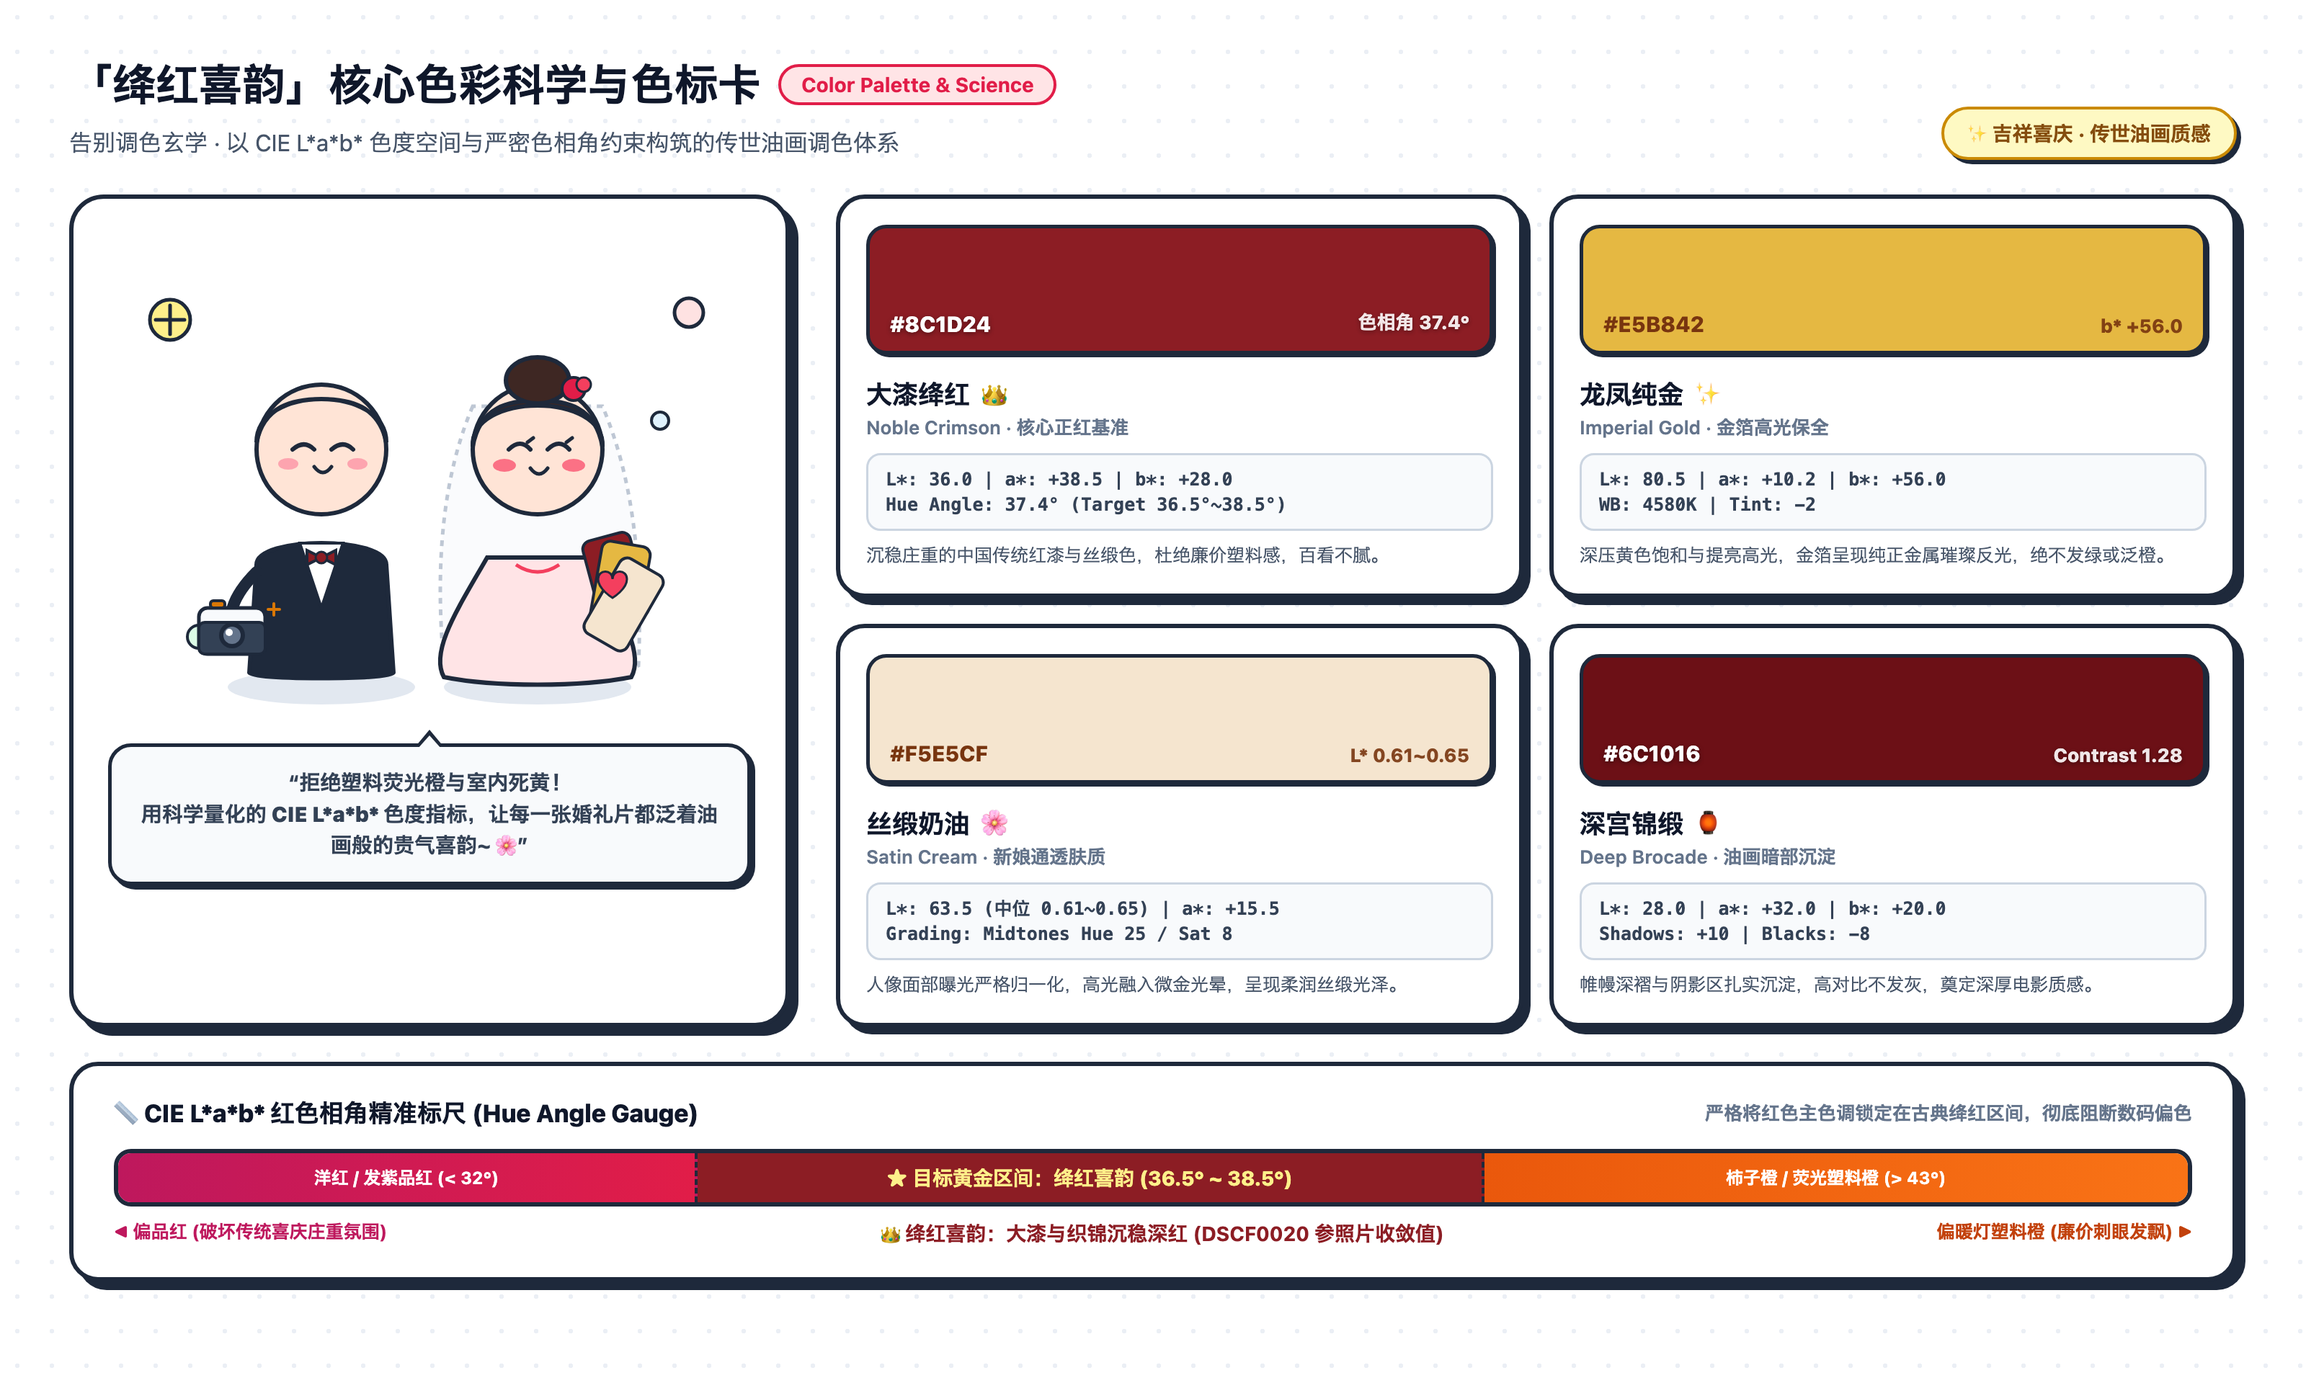
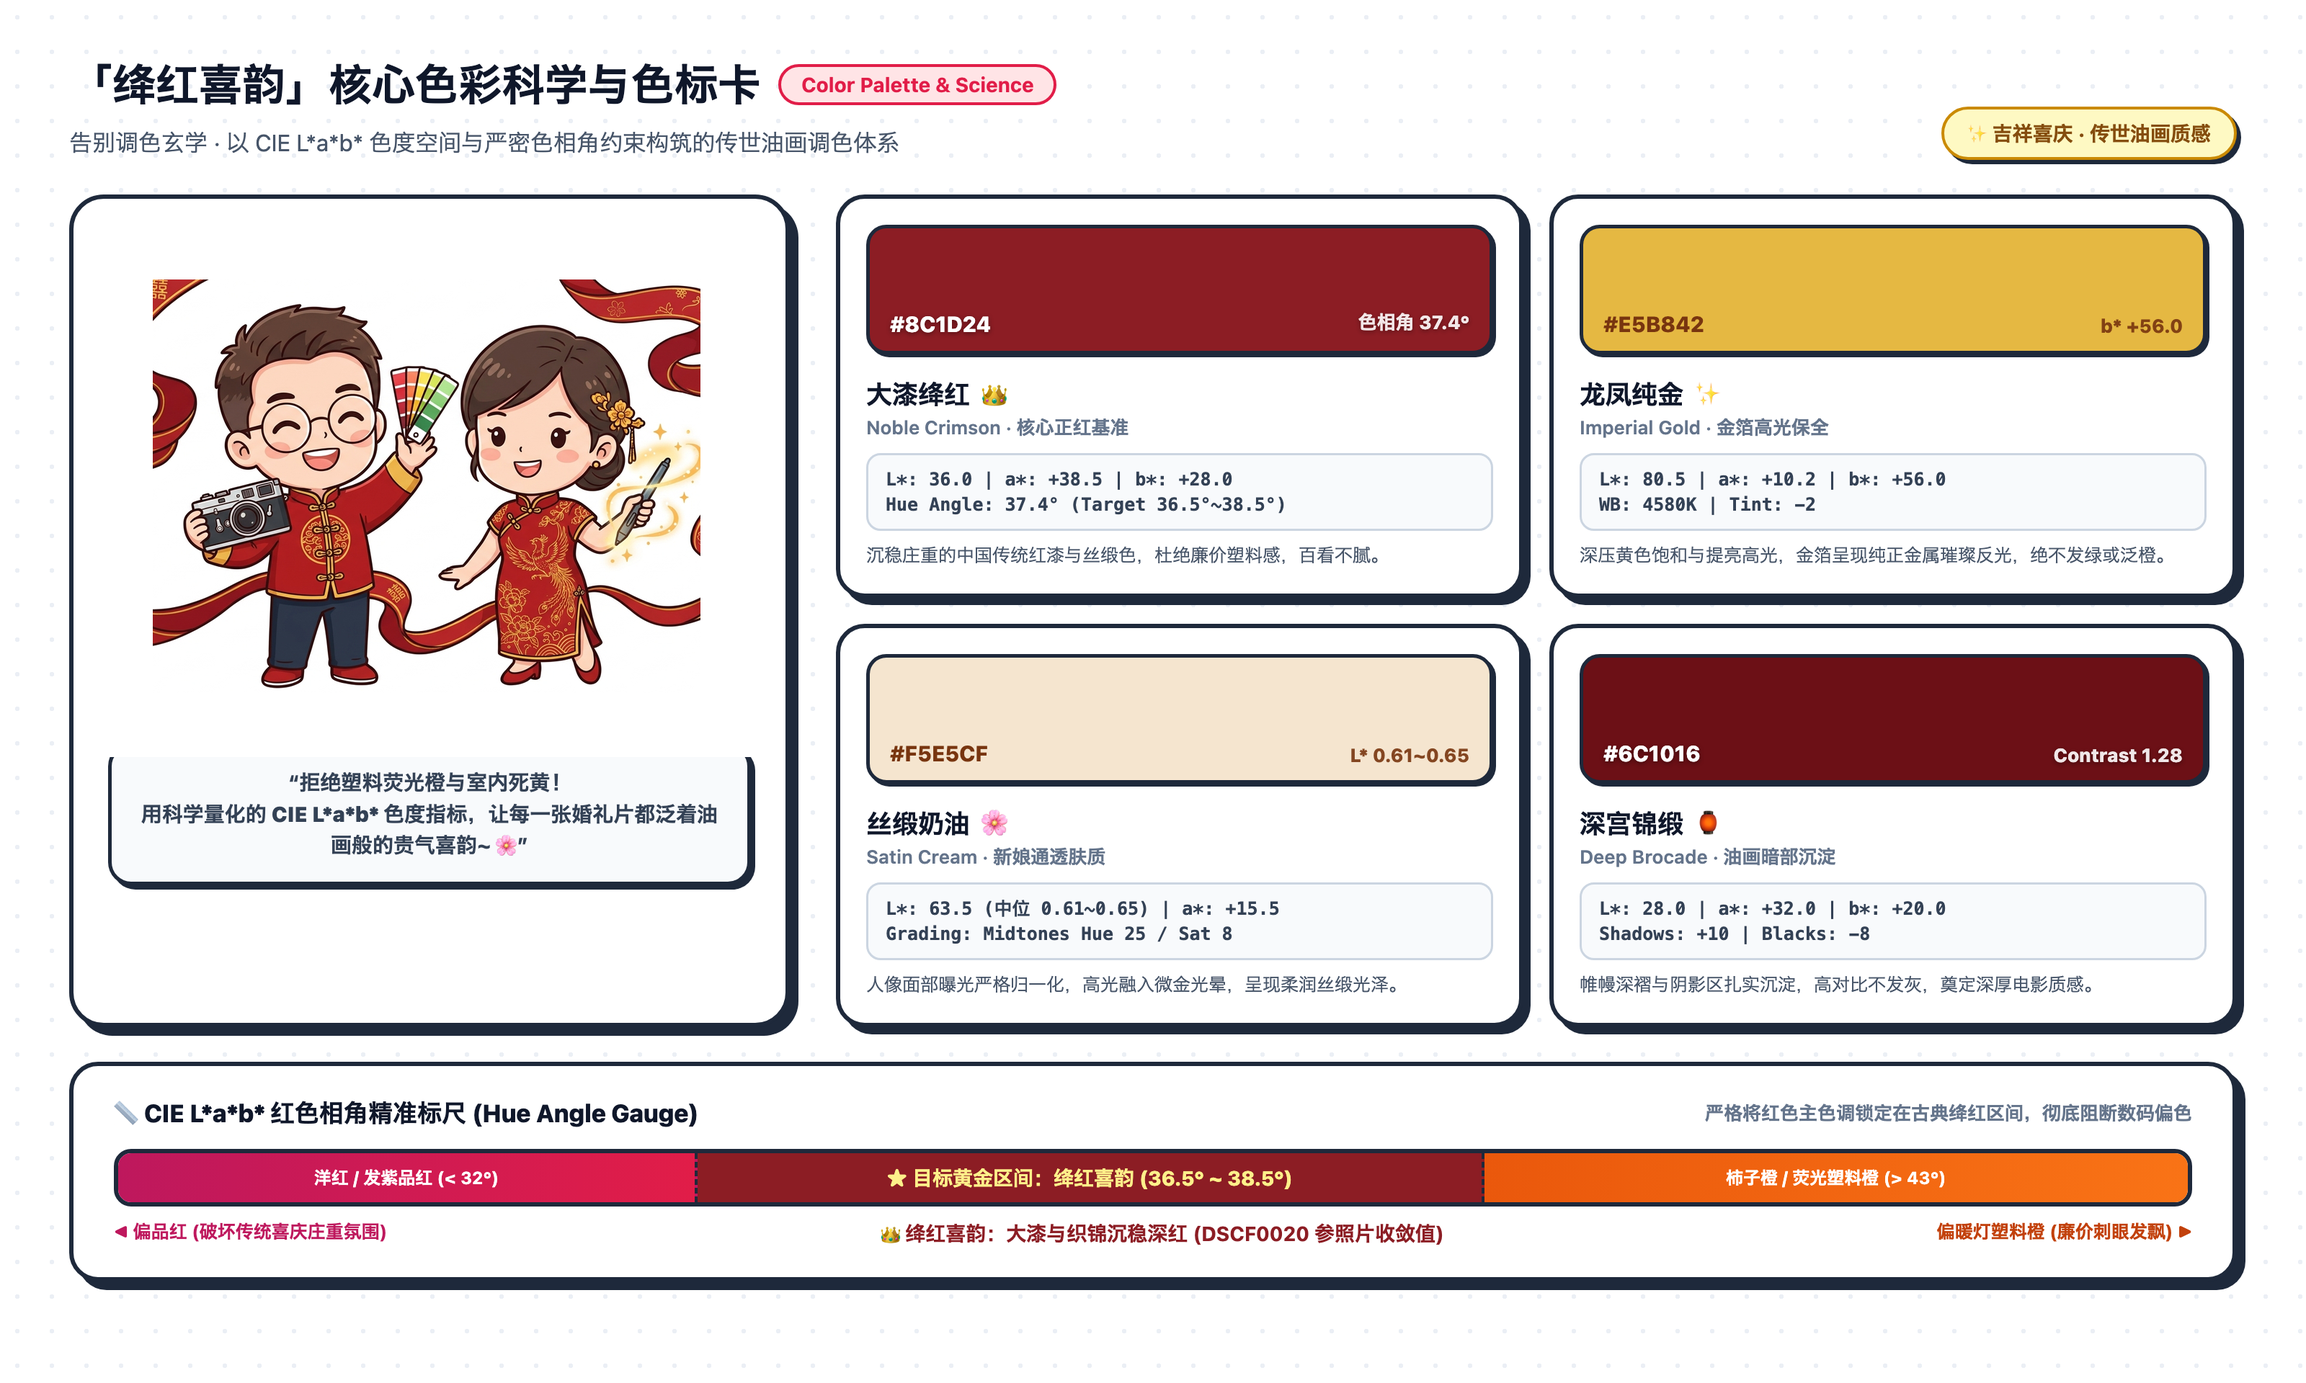
docs: replace repetitive crops with diverse wedding decor details and integrate Banana model mascots
- Replace repetitive suit/sleeve/hand crops in 06 and 07 with diverse, meaningful wedding decor:
  * 06: Wedding dolls on crimson velvet pillows & 'Zao Sheng Gui Zi' plate sets on red satin bedding (DSCF0027)
  * 07: Golden '喜上眉梢' woodcut ornament with red lanterns & bedside florals with champagne silk drape (DSCF0027)
- Integrate Google native multimodal AI (Banana) generated chibi mascots into 05_color_science_swatches.png
- Add standalone high-res 08_mascot_chibi_banana.jpg mascot hero artwork
- Update English and Chinese documentation reflecting new verified comparisons

Changed region(s): [[0.0625, 0.1875, 0.3125, 0.5312]]

diff --git a/README.md b/README.md
@@ -26,19 +26,19 @@ The heart of our calibration effort was dedicated to couple portraits (DSCF0034)
 
 ![Couple Scene Details Before vs After](docs/assets/03_couple_details_before_after.jpg)
 
-### 3. Tea Ceremony & Dragon-Phoenix Xiuhe Embroidery: Noble Crimson & Pure Gold Thread
-Sourced from the standing tea ceremony master deliverable (DSCF0038). Without exposing human faces, this validates traditional Chinese embroidery gold thread and crimson silk fabric under heavy tungsten illumination:
-* **Tea Ceremony Porcelain Cups & Hands**: Camera standard files suffered from yellow ambient light scatter, muddying white porcelain ($b^* 15.0$) and blending red tea coasters with cuffs; after grading, color temperature and HSL are surgically decoupled, banishing yellow contamination ($b^*$ down to $10.3$) so the white porcelain appears jade-like, the groom's Chinese tunic is obsidian and dignified, and dragon gold embroidery stands in sharp relief.
-* **Xiuhe Red Silk Skirt & Pure Gold Thread Embroidery**: The raw camera file exhibited flat, washed-out orange-red ($L^* 52.8$) with heavy yellow veil ($b^* 20.4$); after 06A grading, red luminance is deeply grounded ($L^* 48.6$), chroma is intensified ($C^* 68.2$), and yellow cast is eliminated ($b^*$ down to $17.5$), producing an authentic Suzhou gold embroidery texture.
+### 3. Wedding Bed Decor: Plush Dolls & "Zao Sheng Gui Zi" Plate Sets on Red Satin Bedding
+Sourced from the master bedroom delivery file (DSCF0027). **Strictly avoiding any identifiable facial features**, this focuses on traditional Chinese wedding symbols—plush wedding dolls on velvet pillows and "早生贵子" (Dates, Peanuts, Dried Longans, Lotus Seeds) auspicious plate sets:
+* **Wedding Dolls on Crimson Velvet Pillows**: Raw camera files suffered from washed-out, noisy orange-red hues, shallow pillow shadows, and yellow ambient tint on the doll clothes; after grading, red velvet shadow luminance $L^*$ settles to 32~36, grounding the rich crimson base, pure gold embroidery sparkles with metallic brilliance, and the dolls' faces are cleansed into smooth, luminous porcelain cream.
+* **"Zao Sheng Gui Zi" Red & Gold Auspicious Plate Sets on Satin Bedding**: Ceiling direct lights caused harsh highlight blowout across the red satin duvet, washing out traditional silk brocade textures; with highlight recovery (-70) and red luminance compression ($L^* 41.4$), specular flare is eliminated, gold filigree borders shine brilliantly, dates and peanuts gain plump three-dimensional texture, and silk ripples like flowing water.
 
-![Tea Ceremony & Gold Embroidery Before vs After](docs/assets/06_tea_ceremony_embroidery_before_after.jpg)
+![Wedding Bed Decor Dolls & Satin Bedding Before vs After](docs/assets/06_tea_ceremony_embroidery_before_after.jpg)
 
-### 4. Groom Formal Attire & Bedroom Dim-Room Ambient Balance: Banishing Clipping
-Sourced from the groom solo formal portrait (DSCF0035) and couple wedding bedroom (DSCF0030) master deliverables:
-* **Obsidian Tuxedo & Crimson Silk Tie (DSCF0035)**: Raw camera files suffered from washed-out gray shadows on the wool suit ($L^* 41.4$) and tungsten yellow cast ($b^* 15.1$); after 06A grading, the suit achieves deep obsidian black ($L^* 35.3$), yellow haze is eradicated ($b^*$ down to $9.9$), the white pleated shirt is pristine, and the crimson silk tie and rose boutonniere exhibit luxurious velvet sheen.
-* **Wedding Bedroom Dim-Room Lighting Balance (DSCF0030)**: Direct flash caused harsh 0.51% highlight blowout on foreground subjects while the background sank into pitch black; our environment-first strategy lifted global shadows (+38) with a background feathered radial mask (+0.28 EV), completely eliminating blown highlights and seamlessly blending red-and-gold satin bedding with warm ambient nightstand light.
+### 4. Bedroom Decor: Golden "喜上眉梢" Woodcut Ornament, Red Lanterns & Bedside Florals
+Sourced from bedroom vertical decor and floral arrangements (DSCF0027):
+* **Golden Bird & Double-Happiness Woodcut Ornament with Red Paper Lanterns**: Camera standard files suffered from yellow tungsten pollution that dulled gold highlights and washed out white walls and lanterns; after grading, yellow saturation is precisely suppressed and white balance is neutral, restoring the ornament to genuine golden brilliance ($L^* 80.5, b^* +56.0$), while the lanterns return to pure celebratory red against obsidian-deep velvet drapery.
+* **Bedside Wedding Florals (White Roses & Crimson Berries) with Champagne Silk Drape**: Raw camera files showed white roses corrupted by reddish reflections and muddy dark-tone noise, with bridal satin lacking gentle highlight roll-off; after grading, white roses achieve pristine neutral white, berries and hydrangeas show vivid tonal depth, and champagne silk folds gleam with creamy, smooth luster.
 
-![Groom Attire & Bedroom Lighting Before vs After](docs/assets/07_groom_attire_bedroom_before_after.jpg)
+![Golden Bird Ornament & Bedside Florals Before vs After](docs/assets/07_groom_attire_bedroom_before_after.jpg)
 
 ### 5. Scene Backdrop Folds: Rich 06A Oil-Painting Depth
 A direct crop from the top background of the master reference photo (DSCF0020), showing the three-dimensional gold double-happiness character (囍) and layered red velvet drapery. The camera standard file is flat and washed out; after 06A grading, velvet shadow luminance $L^*$ drops to 28~32, revealing dramatic three-dimensional folds, fine film grain, and rich 1.28 painterly contrast.
@@ -46,7 +46,7 @@ A direct crop from the top background of the master reference photo (DSCF0020), 
 ![Backdrop Details Before vs After](docs/assets/04_background_curtain_before_after.jpg)
 
 ### 6. Cute Cartoon Mascot Swatches & Hue Angle Hard Constraint
-Color grading is converted into verifiable colorimetric benchmarks, paired with cute line-art cartoon mascot graphics on a clean white background:
+Color grading is converted into verifiable colorimetric benchmarks, integrating cute chibi mascots generated directly by Google's native multimodal image generation model (Banana) on a clean white background (featuring the male DIT colorist with vintage camera and female retoucher with digital stylus):
 
 ![Color Science Swatches](docs/assets/05_color_science_swatches.png)
 
@@ -55,6 +55,8 @@ Color grading is converted into verifiable colorimetric benchmarks, paired with 
 * **Satin Cream (丝缎奶油)**: $L^* 63.5, a^* +15.5, b^* +18.0$ · Smooth golden highlights bridging skin and satin gown.
 * **Deep Brocade (深宫锦缎)**: $L^* 28.0, a^* +32.0, b^* +20.0$ · Shadow curtain red holding depth without turning muddy.
 * **Strict Hue Angle Hard Constraint**: Constrained strictly within **$36.5^\circ \sim 38.5^\circ$** (Noble Crimson), avoiding fuchsia ($< 32^\circ$) and neon orange ($> 43^\circ$).
+
+![Banana Model Generated Chibi Wedding Mascots](docs/assets/08_mascot_chibi_banana.jpg)
 
 ---
 
@@ -155,7 +157,8 @@ crimson-wedding-grade/
 │       ├── 04_background_curtain_before_after.jpg
 │       ├── 05_color_science_swatches.png
 │       ├── 06_tea_ceremony_embroidery_before_after.jpg
-│       └── 07_groom_attire_bedroom_before_after.jpg
+│       ├── 07_groom_attire_bedroom_before_after.jpg
+│       └── 08_mascot_chibi_banana.jpg
 ├── references/
 │   ├── crimson_baseline_recipe.json  # Complete 90-operation Lucarne baseline JSON
 │   ├── color_science_and_lab.md      # Target LAB values, hue angles & grading science

diff --git a/README.zh-CN.md b/README.zh-CN.md
@@ -26,19 +26,19 @@
 
 ![双人合影场景细节调色对比](docs/assets/03_couple_details_before_after.jpg)
 
-### 3. 核心双人敬茶与龙凤婚服金绣：大漆绛红与真金光泽
-源自双人站姿敬茶核心片（DSCF0038 终版成片）。在不露脸的前提下，深度检验传统中式刺绣金线与红缎在大光照下的色彩还原：
-* **敬茶盖碗与手部互动**：原片室内散射暖光导致白瓷盖碗偏黄发暗 ($b^* 15.0$)，茶托红漆与龙纹袖口浑浊混杂；调色后色温与 HSL 精准解耦，黄色虚高彻底消除 ($b^*$ 降至 $10.3$)，白瓷温润如玉，男方中山装挺拔沉稳，龙纹金线清晰如画。
-* **秀禾服红缎与立体盘金苏绣**：原片红缎单薄艳浮 ($L^* 52.8$) 且浮黄明显 ($b^* 20.4$)；调色后红色明度深沉压实 ($L^* 48.6$)，色彩纯度大幅凝练 ($C^* 68.2$)，黄色浮雾彻底肃清 ($b^*$ 降至 $17.5$)，重工盘金绣与真丝暗纹交相辉映。
+### 3. 婚床布景细节：压床娃娃红丝绒靠枕与“早生贵子”红金缎面喜盘
+源自婚床核心片（DSCF0027 终版交付成片）。在**绝对不露出人物肖像**的前提下，聚焦中式大婚最具代表性的压床娃娃与“早生贵子”果盘锦被：
+* **压床娃娃红丝绒靠枕与唐装金绣**：原片直出红色发飘发燥，靠枕丝绒浅红轻浮，暗部缺乏深邃雕刻感；娃娃唐装金绣受现场杂散黄光干扰，面部混入杂色。调色后红丝绒深陷处明度 $L^*$ 沉淀至 32~36，压实红基底，丝绒触感醇厚沉着；唐装盘金绣纹折射出纯净金属黄金微芒，娃娃面颊净化为温润透亮的奶油微光，油画质感跃然画面。
+* **“早生贵子”红金缎面喜盘与贡缎锦被**：现场顶灯强光造成缎面高光严重过曝死白，刺绣暗纹被冲刷殆尽。调色后高光深度压制 (-70) 彻底救回真丝反光层次，锦被明度 $L^*$ 凝练压实 (41.4)；金边镂空喜盘灿烂纯正，红枣圆润饱满、花生纹理清晰，真丝暗纹如水波流淌，呈现富丽堂皇的大婚底蕴。
 
-![敬茶与龙凤婚服金绣细节对比](docs/assets/06_tea_ceremony_embroidery_before_after.jpg)
+![婚床布景压床娃娃与“早生贵子”锦缎细节对比](docs/assets/06_tea_ceremony_embroidery_before_after.jpg)
 
-### 4. 新郎礼服质感与婚房暗部光影平衡：告别死白死黑
-源自新郎单人正装片（DSCF0035）与婚房现场大光比片（DSCF0030）终版成片：
-* **黑曜石礼服与绛红真丝领带 (DSCF0035)**：原片羊毛西服灰雾发飘 ($L^* 41.4$) 且受黄灯污染 ($b^* 15.1$)；调色后西装压至深邃纯黑 ($L^* 35.3$)，黄雾全面清除 ($b^*$ 降至 $9.9$)，白衬衫挺括洁净，绛红领带与红玫瑰胸花呈现浓郁丝绒光泽。
-* **婚房暗光大光比环境平衡 (DSCF0030)**：原片补光灯直射使前景死白爆光（过曝达 $0.51\%$），背景却陷入死黑；采用「环境先行策略」大提全局阴影与背景径向遮罩，彻底杜绝高光死白，红金囍字贡缎锦被与婚房暖光自然交融。
+### 4. 婚房布景细节：喜上眉梢纯金木雕挂件、大红灯笼与床畔花艺
+源自婚房立面装饰与床畔花艺细节（DSCF0027 终版交付成片）：
+* **喜上眉梢纯金木雕挂件与双喜红灯笼**：原片室内黄光直射导致金饰反光浑浊泛灰，白墙与灯笼笼罩一层暗沉黄雾，红灯笼色彩发飘泛橙。调色后黄色饱和精准下压，白平衡精准校色，金色挂件呈现典雅璀璨的真金质感；红灯笼色彩回归纯净传统正红，背景丝绒深黑沉稳，挂件镂空喜字与雀鸟羽翼立体浮凸。
+* **床畔大婚花艺（白玫瑰/冬青红果）与香槟真丝裙褶**：原片白玫瑰受到红幔反光污染严重泛红发灰，花瓣暗部噪点杂乱发脏；香槟礼服丝缎高光缺乏温润过渡。调色后白玫瑰色温精准回正，花瓣纯白无瑕且纹理细腻，暗部噪点肃清；冬青红果与深红绣球层次分明，香槟礼服裙褶呈现如奶油丝缎般柔滑的光泽，温润典雅。
 
-![新郎礼服与婚房光影平衡细节对比](docs/assets/07_groom_attire_bedroom_before_after.jpg)
+![喜上眉梢金饰与大红灯笼床畔花艺细节对比](docs/assets/07_groom_attire_bedroom_before_after.jpg)
 
 ### 5. 核心参考片布景细节：06A 浓郁沉稳油画质感
 截取自核心参考片（DSCF0020）顶部的立体金色「囍」字与层叠红丝绒帷幔。相机直出原片帷幔浅红发飘，暗部散漫无力；经过 06A「绛红喜韵」调色后，帷幔深陷处明度 $L^*$ 压至 28~32，丝绒立体深邃，结合 1.28 油画渲染对比度与微胶片颗粒，呈现出沉稳典雅的大婚油画意境。
@@ -46,7 +46,7 @@
 ![布景细节前后对比](docs/assets/04_background_curtain_before_after.jpg)
 
 ### 6. 萌系卡通色标卡与色相角硬约束
-本技能将调色拆解为可量化、可验证的数字色度学标准，并配以白底线条卡通萌系统计图：
+本技能将调色拆解为可量化、可验证的数字色度学标准，并集成由 Google 原生文生图模型（Banana）渲染的白底线条萌系吉祥物（手持复古相机的 DIT 调色师与手握数位笔的修图师）：
 
 ![色彩科学与色标卡](docs/assets/05_color_science_swatches.png)
 
@@ -55,6 +55,8 @@
 * **丝缎奶油 (Satin Cream)**：$L^* 63.5, a^* +15.5, b^* +18.0$ · 肤色与缎面高光柔和过渡，泛出温润微金。
 * **深宫锦缎 (Deep Brocade)**：$L^* 28.0, a^* +32.0, b^* +20.0$ · 暗部红帷幔扎实沉着，绝不发灰发泥。
 * **色相角硬约束**：严格收敛于 **$36.5^\circ \sim 38.5^\circ$**（绛红喜韵），彻底避开发紫的洋红（$< 32^\circ$）与刺眼的柿子橙（$> 43^\circ$）。
+
+![Banana 模型生成白底线条卡通吉祥物](docs/assets/08_mascot_chibi_banana.jpg)
 
 ---
 
@@ -155,7 +157,8 @@ crimson-wedding-grade/
 │       ├── 04_background_curtain_before_after.jpg
 │       ├── 05_color_science_swatches.png
 │       ├── 06_tea_ceremony_embroidery_before_after.jpg
-│       └── 07_groom_attire_bedroom_before_after.jpg
+│       ├── 07_groom_attire_bedroom_before_after.jpg
+│       └── 08_mascot_chibi_banana.jpg
 ├── references/
 │   ├── crimson_baseline_recipe.json  # 完整的 90 项 Lucarne 核心基准 JSON
 │   ├── color_science_and_lab.md      # CIE L*a*b* 色度学标准与色相角规范
